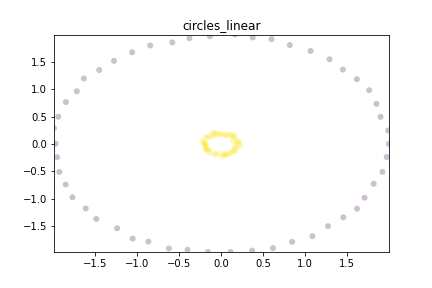
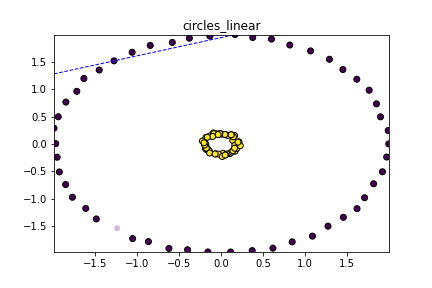
linear kernel is working

diff --git a/src/problem3.py b/src/problem3.py
@@ -80,11 +80,11 @@ def train(model, max_iters = 10, record_every = 1, max_passes = 1, tol=1e-6):
         num_changed_alphas = 0
         passes = 0
         print('iteration: ', t)
-        while (num_changed_alphas > 0 or passes < max_passes):
+        while (num_changed_alphas == 0):
+            print('max_passes: ', max_passes)
             num_changed_alphas = 0
             print('passes: ', passes)
             for i in range(model.m):
-                print('i: ', i)
                 Ei = calculate_E(model, i)
                 if (model.train_y[0, i] * Ei < -tol and model.alpha[0, i] < model.C) or (model.train_y[0, i] * Ei > tol and model.alpha[0, i] > 0):
                     j = get_rnd_int(0, model.m, i)
@@ -103,47 +103,48 @@ def train(model, max_iters = 10, record_every = 1, max_passes = 1, tol=1e-6):
                     if L == H:
                         continue
                     eta = 2.0 * k12 - k11 - k22
-                    # if eta < 0:
-                    #     a2 = alpha_j_old - model.train_y[0, j] * (Ei - Ej) / eta
-                    #     if a2 < L:
-                    #         a2 = L
-                    #     elif a2 > H:
-                    #         a2 = H
-                    # else:
-                    #     f1 = model.train_y[0, i] * (Ei + model.b) - model.alpha[0, i] * k11 - model.train_y[0, j] * model.alpha[0, j] * k12
-                    #     f2 = model.train_y[0, j] * (Ej + model.b) - model.alpha[0, j] * k22 - model.train_y[0, i] * model.alpha[0, i] * k12
-                    #     L1 = model.alpha[0, i] + model.alpha[0, j] - H
-                    #     H1 = model.alpha[0, i] + model.alpha[0, j] - L
-                    #     Lobj = L1 * f1 + L * f2 + 0.5 * L1 * L1 * k11 + 0.5 * L * L * k22 + L * L1 * k12
-                    #     Hobj = H1 * f1 + H * f2 + 0.5 * H1 * H1 * k11 + 0.5 * H * H * k22 + H * H1 * k12
-                    #     if Lobj < Hobj - tol:
-                    #         a2 = L
-                    #     elif Lobj > Hobj + tol:
-                    #         a2 = H
-                    #     else:
-                    #         a2 = model.alpha[0, j]
-                    if eta >= 0:
+                    if eta < 0:
+                        a2 = alpha_j_old - model.train_y[0, j] * (Ei - Ej) / eta
+                        if a2 < L:
+                            a2 = L
+                        elif a2 > H:
+                            a2 = H
+                    else:
+                        f1 = model.train_y[0, i] * (Ei + model.b) - model.alpha[0, i] * k11 - model.train_y[0, j] * model.alpha[0, j] * k12
+                        f2 = model.train_y[0, j] * (Ej + model.b) - model.alpha[0, j] * k22 - model.train_y[0, i] * model.alpha[0, i] * k12
+                        L1 = model.alpha[0, i] + model.alpha[0, j] - H
+                        H1 = model.alpha[0, i] + model.alpha[0, j] - L
+                        Lobj = L1 * f1 + L * f2 + 0.5 * L1 * L1 * k11 + 0.5 * L * L * k22 + L * L1 * k12
+                        Hobj = H1 * f1 + H * f2 + 0.5 * H1 * H1 * k11 + 0.5 * H * H * k22 + H * H1 * k12
+                        if Lobj < Hobj - tol:
+                            a2 = L
+                        elif Lobj > Hobj + tol:
+                            a2 = H
+                        else:
+                            a2 = model.alpha[0, j]
+                    if a2 < 1e-8:
+                        a2 = 0
+                    elif a2 > model.C - 1e-8:
+                        a2 = model.C
+                    if abs(a2 - alpha_j_old) < tol * (a2 + alpha_j_old + tol):
                         continue
-                    model.alpha[0, j] -= model.train_y[0, j] * (Ei - Ej) / eta
-                    model.alpha[0, j] = min(H, model.alpha[0, j])
-                    model.alpha[0, j] = max(L, model.alpha[0, j])
-                    if abs(model.alpha[0, j] - alpha_j_old) < tol:
-                        model.alpha[0, j] = alpha_j_old
-                        continue
-                    model.alpha[0, i] += model.train_y[0, i] * model.train_y[0, j] * (alpha_j_old - model.alpha[0, j])
-                    b1 = model.b - Ei - model.train_y[0, i] * (model.alpha[0, i] - alpha_i_old) * k11 - model.train_y[0, j] * (model.alpha[0, j] - alpha_j_old) * k12 + model.b
-                    b2 = model.b - Ej - model.train_y[0, j] * (model.alpha[0, j] - alpha_j_old) * k12 - model.train_y[0, i] * (model.alpha[0, i] - alpha_i_old) * k22 + model.b
-                    if 0 < model.alpha[0, i] and model.alpha[0, i] < model.C:
+                    a1 = alpha_i_old + model.train_y[0, i] * model.train_y[0, j] * (alpha_j_old - a2)
+                    b1 = model.b - Ei - model.train_y[0, i] * (a1 - alpha_i_old) * k11 - model.train_y[0, j] * (a2 - alpha_j_old) * k12
+                    b2 = model.b - Ej - model.train_y[0, i] * (a1 - alpha_i_old) * k12 - model.train_y[0, j] * (a2 - alpha_j_old) * k22
+                    if 0 < a1 < model.C:
                         model.b = b1
-                    elif 0 < model.alpha[0, j] and model.alpha[0, j] < model.C:
+                    elif 0 < a2 < model.C:
                         model.b = b2
                     else:
                         model.b = (b1 + b2) / 2.0
+                    model.alpha[0, i] = a1
+                    model.alpha[0, j] = a2
                     num_changed_alphas += 1
-            if num_changed_alphas == 0:
-                passes += 1
-            else:
-                passes = 0
+                    print('i: ', i)
+
+            passes += 1
+            if passes > max_passes:
+                break
 
         dual_objective = dual_objective_function(model.alpha, model.train_y, model.train_X, model.kernel_func, model.C)
         primal_objective = primal_objective_function(model.alpha, model.train_y, model.train_X, model.b, model.C, model.kernel_func, model.sigma)

diff --git a/src/problem4.py b/src/problem4.py
@@ -80,8 +80,9 @@ if __name__ == "__main__":
         te_X = data_dict['te_X']
         te_y = data_dict['te_y']
 
-        for kernel in [linear_kernel, Gaussian_kernel]:
-        # for kernel in [Gaussian_kernel]:
+        # for kernel in [linear_kernel, Gaussian_kernel]:
+        # for kernel in [linear_kernel]:
+        for kernel in [Gaussian_kernel]:
 
             print ('========using kernel {}========'.format(kernel.__name__))
             kwargs = {'distribution': dist,
